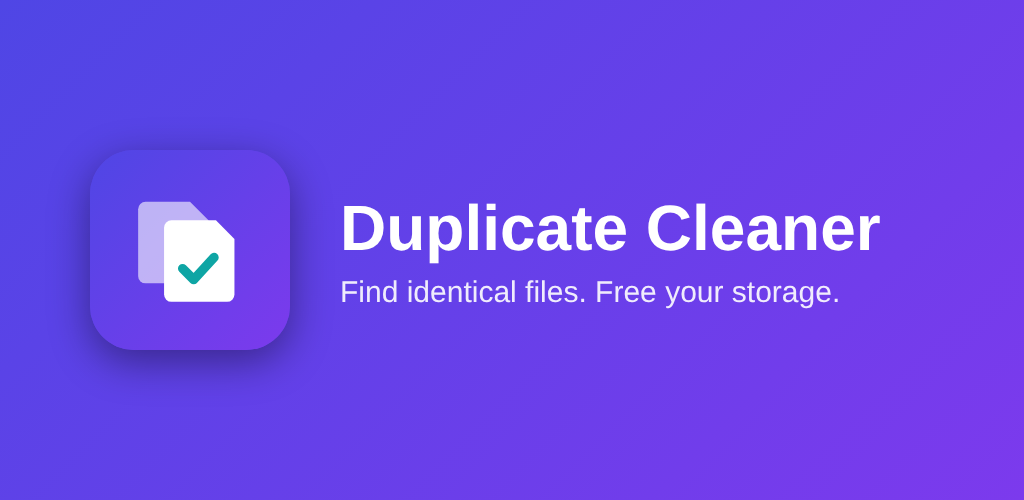
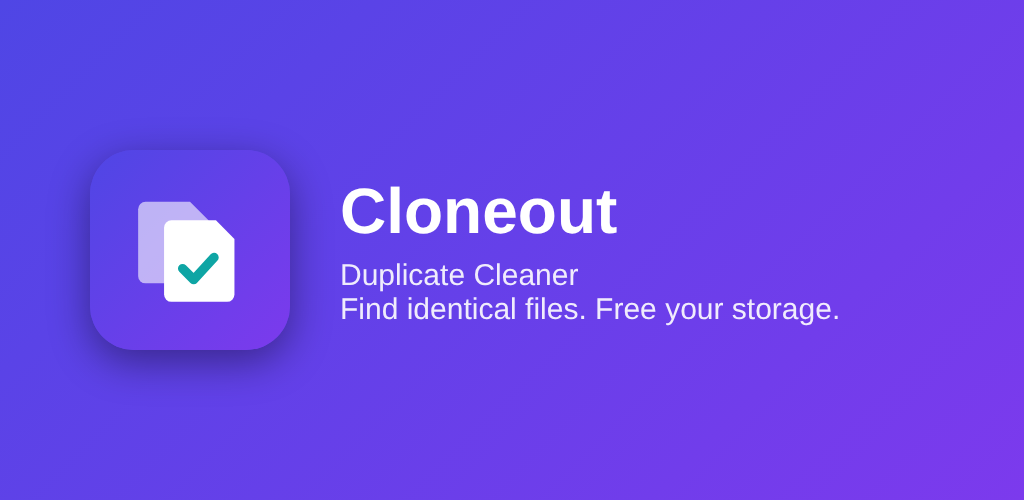
Update Duplicate Cleaner app

Changed region(s): [[0.3125, 0.36, 0.875, 0.66]]

diff --git a/app/src/main/java/com/example/duplicatecleaner/ui/Components.kt b/app/src/main/java/com/example/duplicatecleaner/ui/Components.kt
@@ -2,6 +2,7 @@ package com.example.duplicatecleaner.ui
 
 import androidx.compose.foundation.Image
 import androidx.compose.foundation.background
+import androidx.compose.foundation.border
 import androidx.compose.foundation.clickable
 import androidx.compose.foundation.layout.Arrangement
 import androidx.compose.foundation.layout.Box
@@ -198,7 +199,10 @@ fun SectionTitle(text: String, modifier: Modifier = Modifier) {
 @Composable
 fun AppMark(size: Dp, modifier: Modifier = Modifier) {
     Box(
-        modifier.size(size).clip(RoundedCornerShape(size * 0.28f)),
+        modifier
+            .size(size)
+            .clip(RoundedCornerShape(size * 0.28f))
+            .border(1.5.dp, Color.White.copy(alpha = 0.55f), RoundedCornerShape(size * 0.28f)),
         contentAlignment = Alignment.Center
     ) {
         Image(painterResource(R.drawable.ic_launcher_background), null, Modifier.fillMaxSize())
@@ -227,13 +231,16 @@ fun StatCard(value: String, label: String, icon: ImageVector, modifier: Modifier
         modifier,
         colors = CardDefaults.cardColors(containerColor = MaterialTheme.colorScheme.surfaceVariant.copy(alpha = 0.6f))
     ) {
-        Row(Modifier.padding(14.dp), verticalAlignment = Alignment.CenterVertically) {
+        Column(Modifier.fillMaxWidth().padding(16.dp)) {
             IconCircle(icon, size = 38.dp)
-            Spacer(Modifier.width(12.dp))
-            Column {
-                Text(value, style = MaterialTheme.typography.titleMedium)
-                Text(label, style = MaterialTheme.typography.labelSmall, color = MaterialTheme.colorScheme.onSurfaceVariant)
-            }
+            Spacer(Modifier.height(12.dp))
+            Text(value, style = MaterialTheme.typography.titleLarge, maxLines = 1)
+            Text(
+                label,
+                style = MaterialTheme.typography.labelMedium,
+                color = MaterialTheme.colorScheme.onSurfaceVariant,
+                maxLines = 1
+            )
         }
     }
 }

diff --git a/app/src/main/java/com/example/duplicatecleaner/ui/HomeScreen.kt b/app/src/main/java/com/example/duplicatecleaner/ui/HomeScreen.kt
@@ -48,6 +48,7 @@ import com.example.duplicatecleaner.Tab
 import com.example.duplicatecleaner.UiState
 import com.example.duplicatecleaner.data.FileKind
 import com.example.duplicatecleaner.formatSize
+import com.example.duplicatecleaner.ui.theme.BrandIndigo
 
 @Composable
 fun HomeScreen(state: UiState, vm: MainViewModel, onScan: () -> Unit) {
@@ -80,8 +81,9 @@ fun HomeScreen(state: UiState, vm: MainViewModel, onScan: () -> Unit) {
                     enabled = state.scanKinds.isNotEmpty(),
                     colors = ButtonDefaults.buttonColors(
                         containerColor = Color.White,
-                        contentColor = MaterialTheme.colorScheme.primary,
-                        disabledContainerColor = Color.White.copy(alpha = 0.4f)
+                        contentColor = BrandIndigo,
+                        disabledContainerColor = Color.White.copy(alpha = 0.4f),
+                        disabledContentColor = BrandIndigo.copy(alpha = 0.5f)
                     ),
                     modifier = Modifier.fillMaxWidth().height(52.dp)
                 ) {

diff --git a/app/src/main/java/com/example/duplicatecleaner/ui/SettingsScreen.kt b/app/src/main/java/com/example/duplicatecleaner/ui/SettingsScreen.kt
@@ -201,13 +201,15 @@ private fun PlanCard(state: UiState, pro: ProActions) {
                 Spacer(Modifier.width(8.dp))
                 Text(state.proPrice?.let { "Unlock Pro · $it" } ?: "Unlock Pro")
             }
-            Row(horizontalArrangement = Arrangement.spacedBy(8.dp)) {
+            Row(horizontalArrangement = Arrangement.spacedBy(8.dp), verticalAlignment = Alignment.CenterVertically) {
                 OutlinedButton(onClick = pro.watchAd, enabled = state.rewardReady, modifier = Modifier.weight(1f)) {
                     Icon(Icons.Rounded.PlayCircle, null, Modifier.size(18.dp))
                     Spacer(Modifier.width(6.dp))
-                    Text("+500 MB")
+                    Text("+500 MB", maxLines = 1)
                 }
-                TextButton(onClick = pro.restore) { Text("Restore purchase") }
+                TextButton(onClick = pro.restore, modifier = Modifier.weight(1f)) {
+                    Text("Restore purchase", maxLines = 1)
+                }
             }
         }
     }

diff --git a/docs/ALL_FILES_ACCESS_DECLARATION.md b/docs/ALL_FILES_ACCESS_DECLARATION.md
@@ -11,7 +11,7 @@ Copy and adjust. Keep the wording consistent with your store listing, because re
 File management (accessing, editing and maintaining files and folders outside app-specific storage).
 
 ## Why the permission is needed (draft)
-> Duplicate Cleaner's core and only purpose is to find and remove identical files anywhere on the
+> Cloneout's core and only purpose is to find and remove identical files anywhere on the
 > user's shared storage, across all file types (documents, downloads, archives, media). It must read
 > every user folder to compare file contents, and move the redundant copies into a recoverable trash
 > folder on the same storage. The Storage Access Framework cannot be used because it requires the user

diff --git a/docs/PLAY_STORE_CHECKLIST.md b/docs/PLAY_STORE_CHECKLIST.md
@@ -30,3 +30,9 @@
 ## After launch
 - Watch the Play Console funnel: installs → permission granted → scan finished → paywall shown → purchase.
 - Reviews will tell you whether 1 GB is too generous or too tight; adjust `Entitlements.FREE_BYTES`.
+
+## Store listing name
+- App title (30 max): `Cloneout: Duplicate Cleaner`
+- Launcher label: `Cloneout`
+- Short description: "Find and remove duplicate photos, videos and files, safely."
+- Check the name is free on Play, as a domain and as a trademark before publishing.

diff --git a/docs/PRIVACY_POLICY.md b/docs/PRIVACY_POLICY.md
@@ -1,8 +1,8 @@
-# Privacy Policy: Duplicate Cleaner
+# Privacy Policy: Cloneout
 
 _Last updated: [DATE]_
 
-Duplicate Cleaner ("the app") is published by [YOUR NAME OR COMPANY] ("we"). Contact: [CONTACT EMAIL].
+Cloneout: Duplicate Cleaner ("the app") is published by [YOUR NAME OR COMPANY] ("we"). Contact: [CONTACT EMAIL].
 
 > Draft for you to review and adjust. Replace the bracketed items, host this page at a public URL
 > (for example GitHub Pages), and enter that URL in Play Console. It is not legal advice.

diff --git a/README.md b/README.md
@@ -1,4 +1,4 @@
-# Duplicate Cleaner (native Android, Kotlin + Jetpack Compose)
+# Cloneout: Duplicate Cleaner (native Android, Kotlin + Jetpack Compose)
 
 Scans shared storage for byte-identical files of **any type** (photos, videos, audio,
 documents, downloads, archives…) and lets you delete the extras. Detection is by
